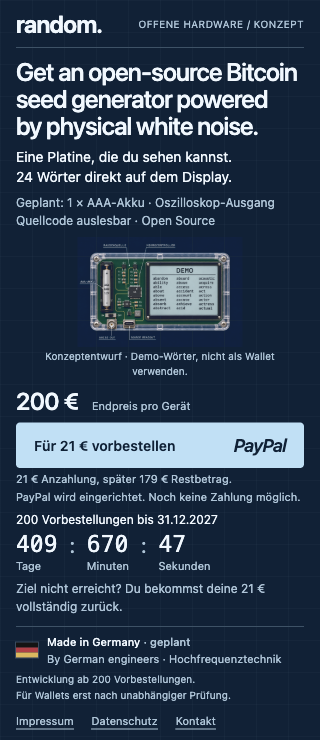
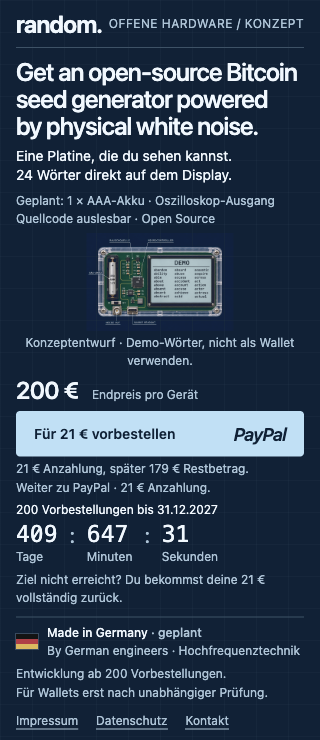
Connect verified 21 EUR PayPal checkout and test campaign expiry

Changed region(s): [[0.0312, 0.1865, 0.9688, 0.9946], [0.3438, 0.0, 0.9062, 0.0622]]

diff --git a/public/style.css b/public/style.css
@@ -1,6 +1,7 @@
-:root{color-scheme:dark;--paper:#0b2238;--ink:#eff8ff;--muted:#a9c5d9;--line:#385368;--accent:#b9e1f7;font-family:-apple-system,BlinkMacSystemFont,"Segoe UI",sans-serif;color:var(--ink);background:var(--paper);font-synthesis:none}*{box-sizing:border-box}body{margin:0}a{color:inherit;text-underline-offset:4px}a:hover{color:var(--accent)}button,a{-webkit-tap-highlight-color:transparent}button{font:inherit}::selection{background:var(--accent);color:var(--paper)}:focus-visible{outline:2px solid var(--accent);outline-offset:5px}.sheet{min-height:100svh;max-width:1680px;margin:auto;padding:0 4.5vw;display:flex;flex-direction:column;background-image:linear-gradient(#8fb9d109 1px,transparent 1px),linear-gradient(90deg,#8fb9d109 1px,transparent 1px);background-size:32px 32px}header{display:flex;justify-content:space-between;align-items:center;min-height:76px;border-bottom:1px solid var(--line)}.wordmark{font-size:29px;font-weight:650;letter-spacing:-.03em;text-decoration:none}.drawing-label{font-size:11px;letter-spacing:.12em;color:var(--muted)}main{flex:1;display:grid;grid-template-columns:1fr 1.22fr;align-items:center;gap:20px;padding:26px 0}.copy{max-width:550px}h1{font-size:clamp(38px,4.1vw,64px);line-height:1.06;letter-spacing:-.035em;font-weight:530;margin:0 0 18px;text-wrap:balance}.lead{font-size:18px;line-height:1.5;margin:0 0 14px}.specs{font-size:13px;line-height:1.65;color:var(--muted);margin:0 0 23px}.price{font-size:32px;font-weight:550;letter-spacing:-.025em;margin:0 0 12px}.price span{font-size:13px;font-weight:400;letter-spacing:0;margin-left:9px;color:var(--muted)}#preorder{display:flex;gap:26px;align-items:center;justify-content:space-between;width:min(100%,370px);background:var(--accent);color:#092238;border:0;border-radius:4px;min-height:48px;padding:12px 18px;font-size:15px;font-weight:600;cursor:pointer;transition:background .15s}#preorder:hover{background:#def2ff}#preorder:active{transform:scale(.985)}#preorder:disabled{opacity:.65;cursor:default}.paypal{font-style:italic;font-size:18px;letter-spacing:-.03em}.deposit,#checkout-status{font-size:11px;color:var(--muted);line-height:1.5;margin:8px 0 0}#checkout-status{min-height:17px}.campaign{margin-top:22px}.target{font-size:13px;margin:0 0 11px}.countdown{display:flex;align-items:flex-start;gap:18px}.countdown div{display:flex;flex-direction:column}.countdown strong{font-family:ui-monospace,SFMono-Regular,Consolas,monospace;font-size:30px;font-weight:400;font-variant-numeric:tabular-nums;line-height:1.15;min-width:2ch}.countdown span:not(.colon){font-size:11px;color:var(--muted);margin-top:5px}.colon{font-size:22px;color:var(--muted)}.refund{font-size:12px;line-height:1.5;max-width:340px;margin:13px 0 0;color:var(--muted)}figure{margin:0;min-width:0}figure img{display:block;width:100%;height:auto;object-fit:contain;max-height:66svh;mix-blend-mode:lighten}figcaption{text-align:center;font-size:11px;color:var(--muted);line-height:1.5;margin-top:8px}footer{min-height:84px;border-top:1px solid var(--line);display:flex;align-items:center;justify-content:space-between;gap:20px;font-size:11px;color:var(--muted)}.origin{display:flex;gap:12px;align-items:center}.origin div{display:flex;flex-direction:column;gap:4px}.origin strong{font-size:12px;color:var(--ink);font-weight:500}.origin strong span{font-size:11px;color:var(--muted)}.flag{width:22px;display:flex;flex-direction:column;outline:1px solid #a9c5d940}.flag i{height:5px;background:#141414}.flag i:nth-child(2){background:#be3543}.flag i:last-child{background:#e2b74e}.validation{line-height:1.6;margin:0}nav{display:flex;gap:16px}nav a{padding:12px 0}.skip{position:fixed;top:-100px;left:12px;background:var(--ink);color:var(--paper);padding:12px;z-index:3}.skip:focus{top:12px}.legal-page{max-width:780px;margin:auto;padding:32px 24px;line-height:1.7}.legal{margin-top:40px}.legal h2{font-weight:500}.legal p{color:var(--muted)}#business-address{white-space:pre-line}@media(min-width:761px) and (max-height:760px){header{min-height:56px}main{padding:16px 0}h1{font-size:44px;margin-bottom:12px}.lead{font-size:16px;margin-bottom:10px}.specs{margin-bottom:13px}.campaign{margin-top:14px}footer{min-height:66px}}@media(max-width:760px){.sheet{padding:0 22px}header{min-height:48px}.wordmark{font-size:24px}.drawing-label{font-size:11px}main{grid-template-columns:1fr;gap:8px;padding:14px 0}.copy{display:contents}h1{font-size:34px;margin:0}.lead{font-size:14px;line-height:1.4;margin:0}.specs{font-size:11px;line-height:1.5;margin:0}figure{grid-row:4;margin:0;justify-self:center;width:100%;max-width:400px}figure img{height:clamp(110px,23svh,220px)}figcaption{font-size:11px;margin:2px 0 0}.purchase{grid-row:5}.price{font-size:24px;line-height:1.2;margin:0 0 7px}.price span{font-size:11px}#preorder{width:100%;min-height:44px;font-size:14px}.deposit,#checkout-status{font-size:11px;margin-top:4px;min-height:0}.campaign{grid-row:6;margin:0}.target{font-size:12px;margin-bottom:5px}.countdown{gap:12px}.countdown strong{font-size:23px}.countdown span:not(.colon){font-size:11px;margin-top:2px}.refund{font-size:11px;margin:7px 0 0;max-width:none}footer{flex-wrap:wrap;gap:8px;padding:12px 0;min-height:0}.origin strong{font-size:11px}.origin{gap:9px}.origin div>span{font-size:11px}.validation{font-size:11px}nav{gap:18px}nav a{padding:5px 0;font-size:11px}}@media(max-width:360px){.sheet{padding:0 16px}h1{font-size:30px}main{gap:7px;padding:10px 0}figure img{height:110px}footer{padding:8px 0}.validation br{display:none}.validation{max-width:260px}}@media(prefers-reduced-motion:reduce){*{transition:none!important}#preorder:active{transform:none}}
-@media(min-width:761px) and (max-height:640px){header{min-height:42px}.wordmark{font-size:24px}main{padding:12px 0}h1{font-size:36px;margin-bottom:10px}.lead{font-size:14px;line-height:1.4;margin-bottom:8px}.specs{font-size:11px;line-height:1.5;margin-bottom:10px}.price{font-size:26px;margin-bottom:8px}#preorder{min-height:44px;padding:10px 16px}.deposit,#checkout-status{font-size:11px;margin-top:5px}.campaign{margin-top:12px}.target{font-size:12px;margin-bottom:6px}.countdown strong{font-size:25px}.countdown span:not(.colon){margin-top:2px}.refund{font-size:11px;margin-top:8px;max-width:370px}footer{min-height:54px}}
+:root{color-scheme:dark;--paper:#0b2238;--ink:#eff8ff;--muted:#a9c5d9;--line:#385368;--accent:#b9e1f7;font-family:-apple-system,BlinkMacSystemFont,"Segoe UI",sans-serif;color:var(--ink);background:var(--paper);font-synthesis:none}*{box-sizing:border-box}body{margin:0}a{color:inherit;text-underline-offset:4px}a:hover{color:var(--accent)}button,a{-webkit-tap-highlight-color:transparent}button{font:inherit}::selection{background:var(--accent);color:var(--paper)}:focus-visible{outline:2px solid var(--accent);outline-offset:5px}.sheet{min-height:100svh;max-width:1680px;margin:auto;padding:0 4.5vw;display:flex;flex-direction:column;background-image:linear-gradient(#8fb9d109 1px,transparent 1px),linear-gradient(90deg,#8fb9d109 1px,transparent 1px);background-size:32px 32px}header{display:flex;justify-content:space-between;align-items:center;min-height:76px;border-bottom:1px solid var(--line)}.wordmark{font-size:29px;font-weight:650;letter-spacing:-.03em;text-decoration:none}.drawing-label{font-size:12px;letter-spacing:.12em;color:var(--muted)}main{flex:1;display:grid;grid-template-columns:1fr 1.22fr;align-items:center;gap:20px;padding:26px 0}.copy{max-width:550px}h1{font-size:clamp(38px,4.1vw,64px);line-height:1.06;letter-spacing:-.035em;font-weight:530;margin:0 0 18px;text-wrap:balance}.lead{font-size:18px;line-height:1.5;margin:0 0 14px}.specs{font-size:13px;line-height:1.65;color:var(--muted);margin:0 0 23px}.price{font-size:32px;font-weight:550;letter-spacing:-.025em;margin:0 0 12px}.price span{font-size:13px;font-weight:400;letter-spacing:0;margin-left:9px;color:var(--muted)}#preorder{display:flex;gap:26px;align-items:center;justify-content:space-between;width:min(100%,370px);background:var(--accent);color:#092238;border:0;border-radius:4px;min-height:48px;padding:12px 18px;font-size:15px;font-weight:600;cursor:pointer;transition:background .15s}#preorder:hover{background:#def2ff}#preorder:active{transform:scale(.985)}#preorder:disabled{opacity:.65;cursor:default}.paypal{font-style:italic;font-size:18px;letter-spacing:-.03em}.deposit,#checkout-status{font-size:12px;color:var(--muted);line-height:1.5;margin:8px 0 0}#checkout-status{min-height:17px}.campaign{margin-top:22px}.target{font-size:13px;margin:0 0 11px}.countdown{display:flex;align-items:flex-start;gap:18px}.countdown div{display:flex;flex-direction:column}.countdown strong{font-family:ui-monospace,SFMono-Regular,Consolas,monospace;font-size:30px;font-weight:400;font-variant-numeric:tabular-nums;line-height:1.15;min-width:2ch}.countdown span:not(.colon){font-size:12px;color:var(--muted);margin-top:5px}.colon{font-size:22px;color:var(--muted)}.refund{font-size:12px;line-height:1.5;max-width:340px;margin:13px 0 0;color:var(--muted)}figure{margin:0;min-width:0}figure img{display:block;width:100%;height:auto;object-fit:contain;max-height:66svh;mix-blend-mode:lighten}figcaption{text-align:center;font-size:12px;color:var(--muted);line-height:1.5;margin-top:8px}footer{min-height:84px;border-top:1px solid var(--line);display:flex;align-items:center;justify-content:space-between;gap:20px;font-size:12px;color:var(--muted)}.origin{display:flex;gap:12px;align-items:center}.origin div{display:flex;flex-direction:column;gap:4px}.origin strong{font-size:12px;color:var(--ink);font-weight:500}.origin strong span{font-size:12px;color:var(--muted)}.flag{width:22px;display:flex;flex-direction:column;outline:1px solid #a9c5d940}.flag i{height:5px;background:#141414}.flag i:nth-child(2){background:#be3543}.flag i:last-child{background:#e2b74e}.validation{line-height:1.6;margin:0}nav{display:flex;gap:16px}nav a{padding:12px 0}.skip{position:fixed;top:-100px;left:12px;background:var(--ink);color:var(--paper);padding:12px;z-index:3}.skip:focus{top:12px}.legal-page{max-width:780px;margin:auto;padding:32px 24px;line-height:1.7}.legal{margin-top:40px}.legal h2{font-weight:500}.legal p{color:var(--muted)}#business-address{white-space:pre-line}@media(min-width:761px) and (max-height:760px){header{min-height:56px}main{padding:16px 0}h1{font-size:44px;margin-bottom:12px}.lead{font-size:16px;margin-bottom:10px}.specs{margin-bottom:13px}.campaign{margin-top:14px}footer{min-height:66px}}@media(max-width:760px){.sheet{padding:0 22px}header{min-height:48px}.wordmark{font-size:24px}.drawing-label{font-size:12px}main{grid-template-columns:1fr;gap:8px;padding:14px 0}.copy{display:contents}h1{font-size:34px;margin:0}.lead{font-size:14px;line-height:1.4;margin:0}.specs{font-size:12px;line-height:1.5;margin:0}figure{grid-row:4;margin:0;justify-self:center;width:100%;max-width:400px}figure img{height:clamp(110px,23svh,220px)}figcaption{font-size:12px;margin:2px 0 0}.purchase{grid-row:5}.price{font-size:24px;line-height:1.2;margin:0 0 7px}.price span{font-size:12px}#preorder{width:100%;min-height:44px;font-size:14px}.deposit,#checkout-status{font-size:12px;margin-top:4px;min-height:0}.campaign{grid-row:6;margin:0}.target{font-size:12px;margin-bottom:5px}.countdown{gap:12px}.countdown strong{font-size:23px}.countdown span:not(.colon){font-size:12px;margin-top:2px}.refund{font-size:12px;margin:7px 0 0;max-width:none}footer{flex-wrap:wrap;gap:8px;padding:12px 0;min-height:0}.origin strong{font-size:12px}.origin{gap:9px}.origin div>span{font-size:12px}.validation{font-size:12px}nav{gap:18px}nav a{padding:5px 0;font-size:12px}}@media(max-width:360px){.sheet{padding:0 16px}h1{font-size:30px}main{gap:7px;padding:10px 0}figure img{height:110px}footer{padding:8px 0}.validation br{display:none}.validation{max-width:260px}}@media(prefers-reduced-motion:reduce){*{transition:none!important}#preorder:active{transform:none}}
+@media(min-width:761px) and (max-height:640px){header{min-height:42px}.wordmark{font-size:24px}main{padding:12px 0}h1{font-size:36px;margin-bottom:10px}.lead{font-size:14px;line-height:1.4;margin-bottom:8px}.specs{font-size:12px;line-height:1.5;margin-bottom:10px}.price{font-size:26px;margin-bottom:8px}#preorder{min-height:44px;padding:10px 16px}.deposit,#checkout-status{font-size:12px;margin-top:5px}.campaign{margin-top:12px}.target{font-size:12px;margin-bottom:6px}.countdown strong{font-size:25px}.countdown span:not(.colon){margin-top:2px}.refund{font-size:12px;margin-top:8px;max-width:370px}footer{min-height:54px}}
 
 .skip:hover{color:var(--paper)}
-@media(max-width:760px){.drawing-label{font-size:10px;letter-spacing:.04em}.specs,.refund{font-size:12px}.validation{font-size:10px}.validation br{display:initial}.validation br:after{content:" "}.sheet{min-height:100svh}main{gap:6px}footer{gap:6px}.deposit,#checkout-status{line-height:1.3}figcaption{font-size:10px}}
+@media(max-width:760px){.drawing-label{font-size:12px;letter-spacing:.04em}.specs,.refund{font-size:12px}.validation{font-size:12px}.validation br{display:initial}.validation br:after{content:" "}.sheet{min-height:100svh}main{gap:6px}footer{gap:6px}.deposit,#checkout-status{line-height:1.3}figcaption{font-size:12px}}
 @media(max-width:360px){h1{font-size:25px;line-height:1.08}}
+@media(max-width:360px){figure img{height:98px}}

diff --git a/public/index.html b/public/index.html
@@ -20,7 +20,7 @@
 <div class="purchase"><p class="price">200 € <span>Endpreis pro Gerät</span></p>
 <button id="preorder" type="button"><span>Für 21 € vorbestellen</span><span class="paypal" aria-label="mit PayPal">PayPal</span></button>
 <p class="deposit">21 € Anzahlung, später 179 € Restbetrag.</p>
-<p id="checkout-status" role="status">PayPal wird eingerichtet. Noch keine Zahlung möglich.</p></div>
+<p id="checkout-status" role="status">Weiter zu PayPal · 21 € Anzahlung.</p></div>
 <div class="campaign"><p class="target">200 Vorbestellungen bis 31.12.2027</p>
 <div class="countdown" role="timer" aria-label="Verbleibende Zeit bis Ende 31. Dezember 2027, Berliner Zeit"><div><strong id="days">—</strong><span>Tage</span></div><span class="colon" aria-hidden="true">:</span><div><strong id="minutes">—</strong><span>Minuten</span></div><span class="colon" aria-hidden="true">:</span><div><strong id="seconds">—</strong><span>Sekunden</span></div></div>
 <p class="refund">Ziel nicht erreicht? Du bekommst deine 21 € vollständig zurück.</p>

diff --git a/public/app.js b/public/app.js
@@ -1,4 +1,5 @@
 import {remaining} from './countdown.mjs';
+const checkoutUrl = 'https://www.paypal.com/ncp/payment/LNLWF5H4LCK44';
 const button = document.querySelector('#preorder');
 const status = document.querySelector('#checkout-status');
 function tick() {
@@ -9,7 +10,8 @@ function tick() {
 }
 button.addEventListener('click', () => {
   if (remaining(Date.now()).ended) { tick(); return; }
-  status.textContent = 'Noch kein Checkout verfügbar. Es wurde nichts bestellt oder bezahlt.';
+  status.textContent = 'Weiterleitung zu PayPal …';
+  window.location.assign(checkoutUrl);
 });
 tick();
 setInterval(tick, 1000);

diff --git a/README.md b/README.md
@@ -2,7 +2,7 @@
 
 ![Current concept preview](docs/preview.png)
 
-**Review build — not accepting orders.** This repository hosts the website source. It is not a live shop. GitHub Pages is not enabled because its terms exclude sites primarily facilitating commercial transactions.
+**Review build — public shop launch incomplete.** This repository hosts the website source. It is not a live shop. GitHub Pages is not enabled because its terms exclude sites primarily facilitating commercial transactions.
 
 
 Single-screen German CAD-style hardware concept preview. Legacy consent-based waitlist service retained, but not exposed by the new hero. Python standard library; no build or package installation.
@@ -17,7 +17,7 @@ Single-screen German CAD-style hardware concept preview. Legacy consent-based wa
 
 The page shows the requested concept, €21 deposit, €200 final price and 200 paid-order development threshold. Free waitlist entries never count as paid orders. Hardware, firmware, entropy measurements and wallet seed support do not exist yet. Concept image is marked as AI visualization. The site software is MIT licensed; hardware licensing is undecided.
 
-**Payments are not implemented or enabled.** Paddle excludes physical goods and crowdfunding. PayPal Business conversion/setup (existing personal session confirmed), account approval for this preorder model, delivery/fulfillment terms, taxes, shipping, cancellation/refunds remain unresolved. Campaign deadline is end of 31 December 2027 Europe/Berlin; the seller promises full deposit refunds if fewer than 200 paid preorders are reached. Never relabel an unsuitable payment as a donation or digital good. Do not publish a buy button until the provider and seller terms are valid.
+**Hosted PayPal checkout is connected locally; no payment capture/refund has been tested.** Paddle excludes physical goods and crowdfunding. PayPal Business session and hosted link are now confirmed; account approval for this preorder model, delivery/fulfillment terms, taxes, shipping, cancellation/refunds remain unresolved. Campaign deadline is end of 31 December 2027 Europe/Berlin; the seller promises full deposit refunds if fewer than 200 paid preorders are reached. Never relabel an unsuitable payment as a donation or digital good. Do not publish a buy button until the provider and seller terms are valid.
 
 Before public launch: confirmed provider identity/address, final privacy hosting statement, TLS and DNS, off-host backup/restore check, authenticated business account and provider approval, sandbox checkout/capture/webhook/refund tests, and real mail confirmation for payment receipts. Launch notification emails are not automated; entries require an explicit operational send and deletion afterwards. Consent is collected but email ownership is not verified; do not interpret entries as verified customers.
 
@@ -39,4 +39,4 @@ The service stores email, timestamp and consent version in a private SQLite file
 
 ## Current preview (16 November 2026)
 
-Lovable regeneration is paused because credits ran out. Local implementation is available at http://127.0.0.1:8864. No paid upgrade, deployment or checkout activation was performed. `node tests/test_countdown.mjs` checks six countdown boundaries. See [verification results](docs/verification.md). Real ego-lite checks cover 320×740, desktop, keyboard CTA, zero/expired timer and blocked payment state. PayPal CTA currently explains that checkout is unavailable. A verified merchant checkout and payment-backed counting/refunds remain necessary before taking orders.
+Lovable regeneration is paused because credits ran out. Local implementation is available at http://127.0.0.1:8864. No paid upgrade, deployment or checkout activation was performed. `node tests/test_countdown.mjs` checks six countdown boundaries. See [verification results](docs/verification.md). Real ego-lite checks cover 320×740, desktop, keyboard CTA, zero/expired timer and blocked payment state. The CTA now opens the verified 21 EUR PayPal hosted checkout. No transaction has been made. Public hosting, seller address, fulfillment terms and operational counting/refunds remain incomplete.

diff --git a/docs/verification.md b/docs/verification.md
@@ -24,3 +24,7 @@ Review build works locally. It is not ready to accept paid preorders.
 ## Evidence
 ![Desktop](preview.png)
 ![Mobile](mobile.png)
+
+## PayPal continuation
+
+Business session verified. Created hosted payment link LNLWF5H4LCK44, SKU RANDOM-PREORDER-21, fixed21 EUR, quantity1, shipping-address collection. Description includes concept status, total200 EUR, remaining179 EUR, target200, end31Dec2027 deadline and full-refund promise if target missed. Local CTA Enter navigates to the genuine PayPal checkout and shows correct item and21 EUR. Expiry still blocks navigation. Existing5 Python tests and6 countdown assertions pass. No payment/capture/refund test performed. Checkout keeps account-wide merchant home kartoffelpost.net, deliberately not changed for unrelated products. Launch blockers remaining: public seller address, delivery terms and production host. The earlier personal-account and absent-checkout blockers above are superseded by this continuation.
